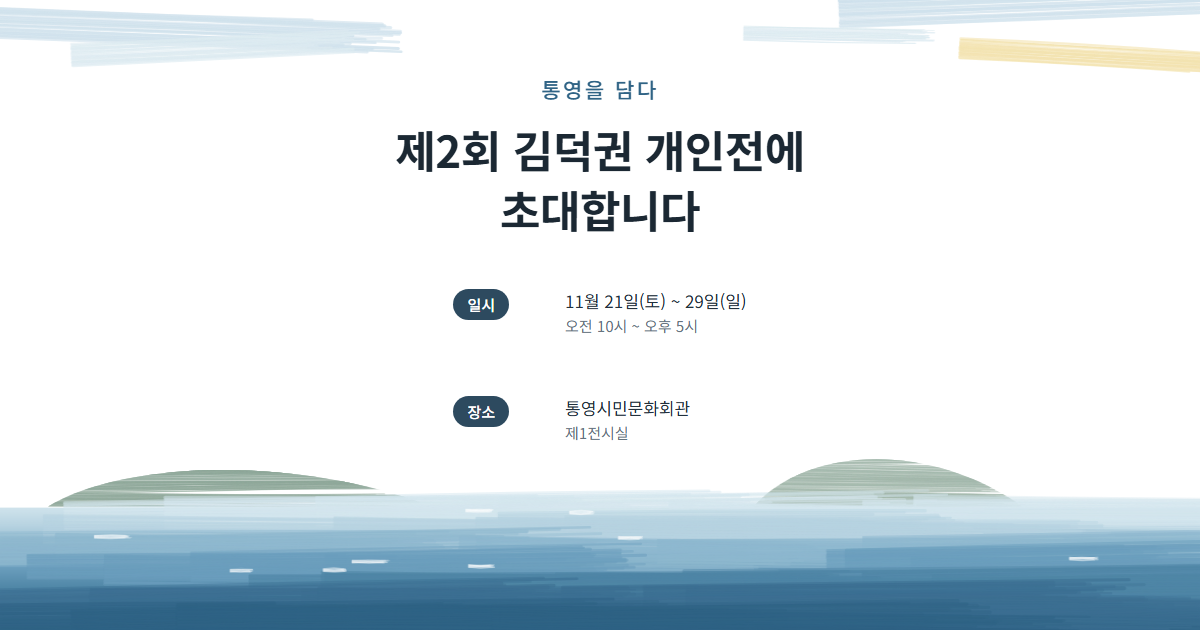
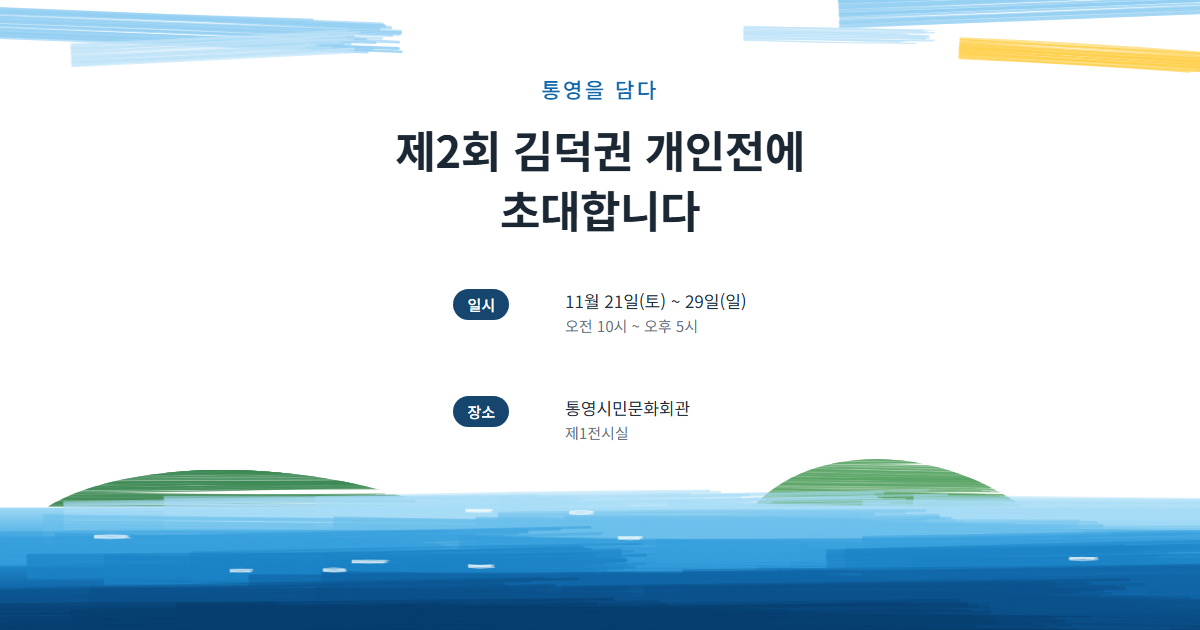
하늘·바다·섬 색을 더 선명하게, 항목 상자 안 간격 줄임, 오시는 길 닫기 버튼 간격 통일

diff --git a/index.html b/index.html
@@ -19,12 +19,12 @@
   /* 밝은 초대장으로 고정: 맑은 흰 바탕, 통영 바다빛 남색 글자, 유화 붓질로 그린 하늘과 바다 */
   :root {
     --bg: #FFFFFF;
-    --bg-soft: #F4F8F9;
+    --bg-soft: #EEF5FA;
     --ink: #22303C;
     --muted: #66737E;
-    --navy: #2D4A5F;
-    --sea: #2F6385;
-    --sea-light: #8EB8CF;
+    --navy: #16466E;
+    --sea: #1167A8;
+    --sea-light: #5FB2E6;
     --line: #E2E9EC;
     --sans: "Noto Sans KR", "Apple SD Gothic Neo", "Malgun Gothic", sans-serif;
     --bar-h: 68px;
@@ -146,11 +146,11 @@
     max-width: 340px;
     box-sizing: border-box;
     align-self: center;
-    padding: 30px 22px 34px;
+    padding: 22px 20px 24px;
     display: flex;
     flex-direction: column;
     align-items: center;
-    gap: 26px;
+    gap: 14px;
   }
   /* 항목 제목(초대의 말·전시 일정·안내 말씀, 팝업 제목): 바다색 굵은 글자 */
   h2, .popup h3 {
@@ -170,7 +170,7 @@
     line-height: 1.7;
   }
   .greeting { font-size: 17px; line-height: 2; }
-  .greeting p + p { margin-top: 1.2em; }
+  .greeting p + p { margin-top: .9em; }
   .signature { font-size: 18px; font-weight: 500; }
   .signature span { color: var(--muted); font-size: 14px; font-weight: 400; margin-right: 8px; }
   .notice { font-size: 17px; line-height: 1.9; }
@@ -382,6 +382,7 @@
       <button class="line-btn" id="copy-addr" type="button">주소 복사</button>
     </div>
     <p class="park">회관 주차장을 이용하실 수 있습니다.<small>유료 · 가까운 공영주차장(걸어서 3분)도 있습니다</small></p>
+    <div class="popup-actions">
     <div class="map-links">
       <a href="https://place.map.kakao.com/8621139" target="_blank" rel="noopener">
         <svg viewBox="0 0 28 28" aria-hidden="true">
@@ -399,7 +400,8 @@
         네이버 지도
       </a>
     </div>
-    <button class="close" type="button">닫기</button>
+      <button class="close" type="button">닫기</button>
+    </div>
   </div>
 
 </div>
@@ -442,9 +444,9 @@
     function paintSky(canvas) {
       var c = setup(canvas); if (!c) return;
       var r = rng(7), ctx = c.ctx, w = c.w, h = c.h;
-      [[-.06, .18, .4, .04, 30, '#CFE1EC'], [.06, .5, .24, -.05, 22, '#DDEBF1'],
-       [.7, .12, .38, -.04, 28, '#CFE1EC'], [.8, .44, .24, .06, 20, '#F3E3B0'],
-       [.62, .3, .16, .02, 14, '#DDEBF1']].forEach(function (s) {
+      [[-.06, .18, .4, .04, 30, '#8FCDF2'], [.06, .5, .24, -.05, 22, '#BFE3F8'],
+       [.7, .12, .38, -.04, 28, '#8FCDF2'], [.8, .44, .24, .06, 20, '#FFD04D'],
+       [.62, .3, .16, .02, 14, '#BFE3F8']].forEach(function (s) {
         stroke(ctx, r, s[0] * w, s[1] * h, s[2] * w, s[3], s[4], s[5], .9);
       });
     }
@@ -453,7 +455,7 @@
       var r = rng(23), ctx = c.ctx, w = c.w, h = c.h;
       var horizon = h * .34;
       // 섬: 수평선 위에 낮게 엎드린 두 개의 섬
-      [[.2, .26, .2, '#8FA89A'], [.74, .34, .14, '#A3B8AC']].forEach(function (isl) {
+      [[.2, .26, .2, '#3E8A55'], [.74, .34, .14, '#5BA567']].forEach(function (isl) {
         var cx = isl[0] * w, iw = isl[2] * w * 1.6, ih = isl[1] * h * .9;
         ctx.save();
         ctx.beginPath();
@@ -467,7 +469,7 @@
         ctx.restore();
       });
       // 바다: 수평선에서 아래로 갈수록 짙어지는 가로 붓질
-      var bands = ['#D4E6EE', '#B7D3E1', '#8EB8CF', '#6B9EBD', '#4F86A6', '#3C6F92', '#2F6385'];
+      var bands = ['#A9DDF7', '#6CC0EC', '#37A0DD', '#1C84C6', '#1167A8', '#0C528C', '#083F70'];
       var base = ctx.createLinearGradient(0, horizon, 0, h);
       bands.forEach(function (col, i) { base.addColorStop(i / (bands.length - 1), col); });
       ctx.fillStyle = base;
